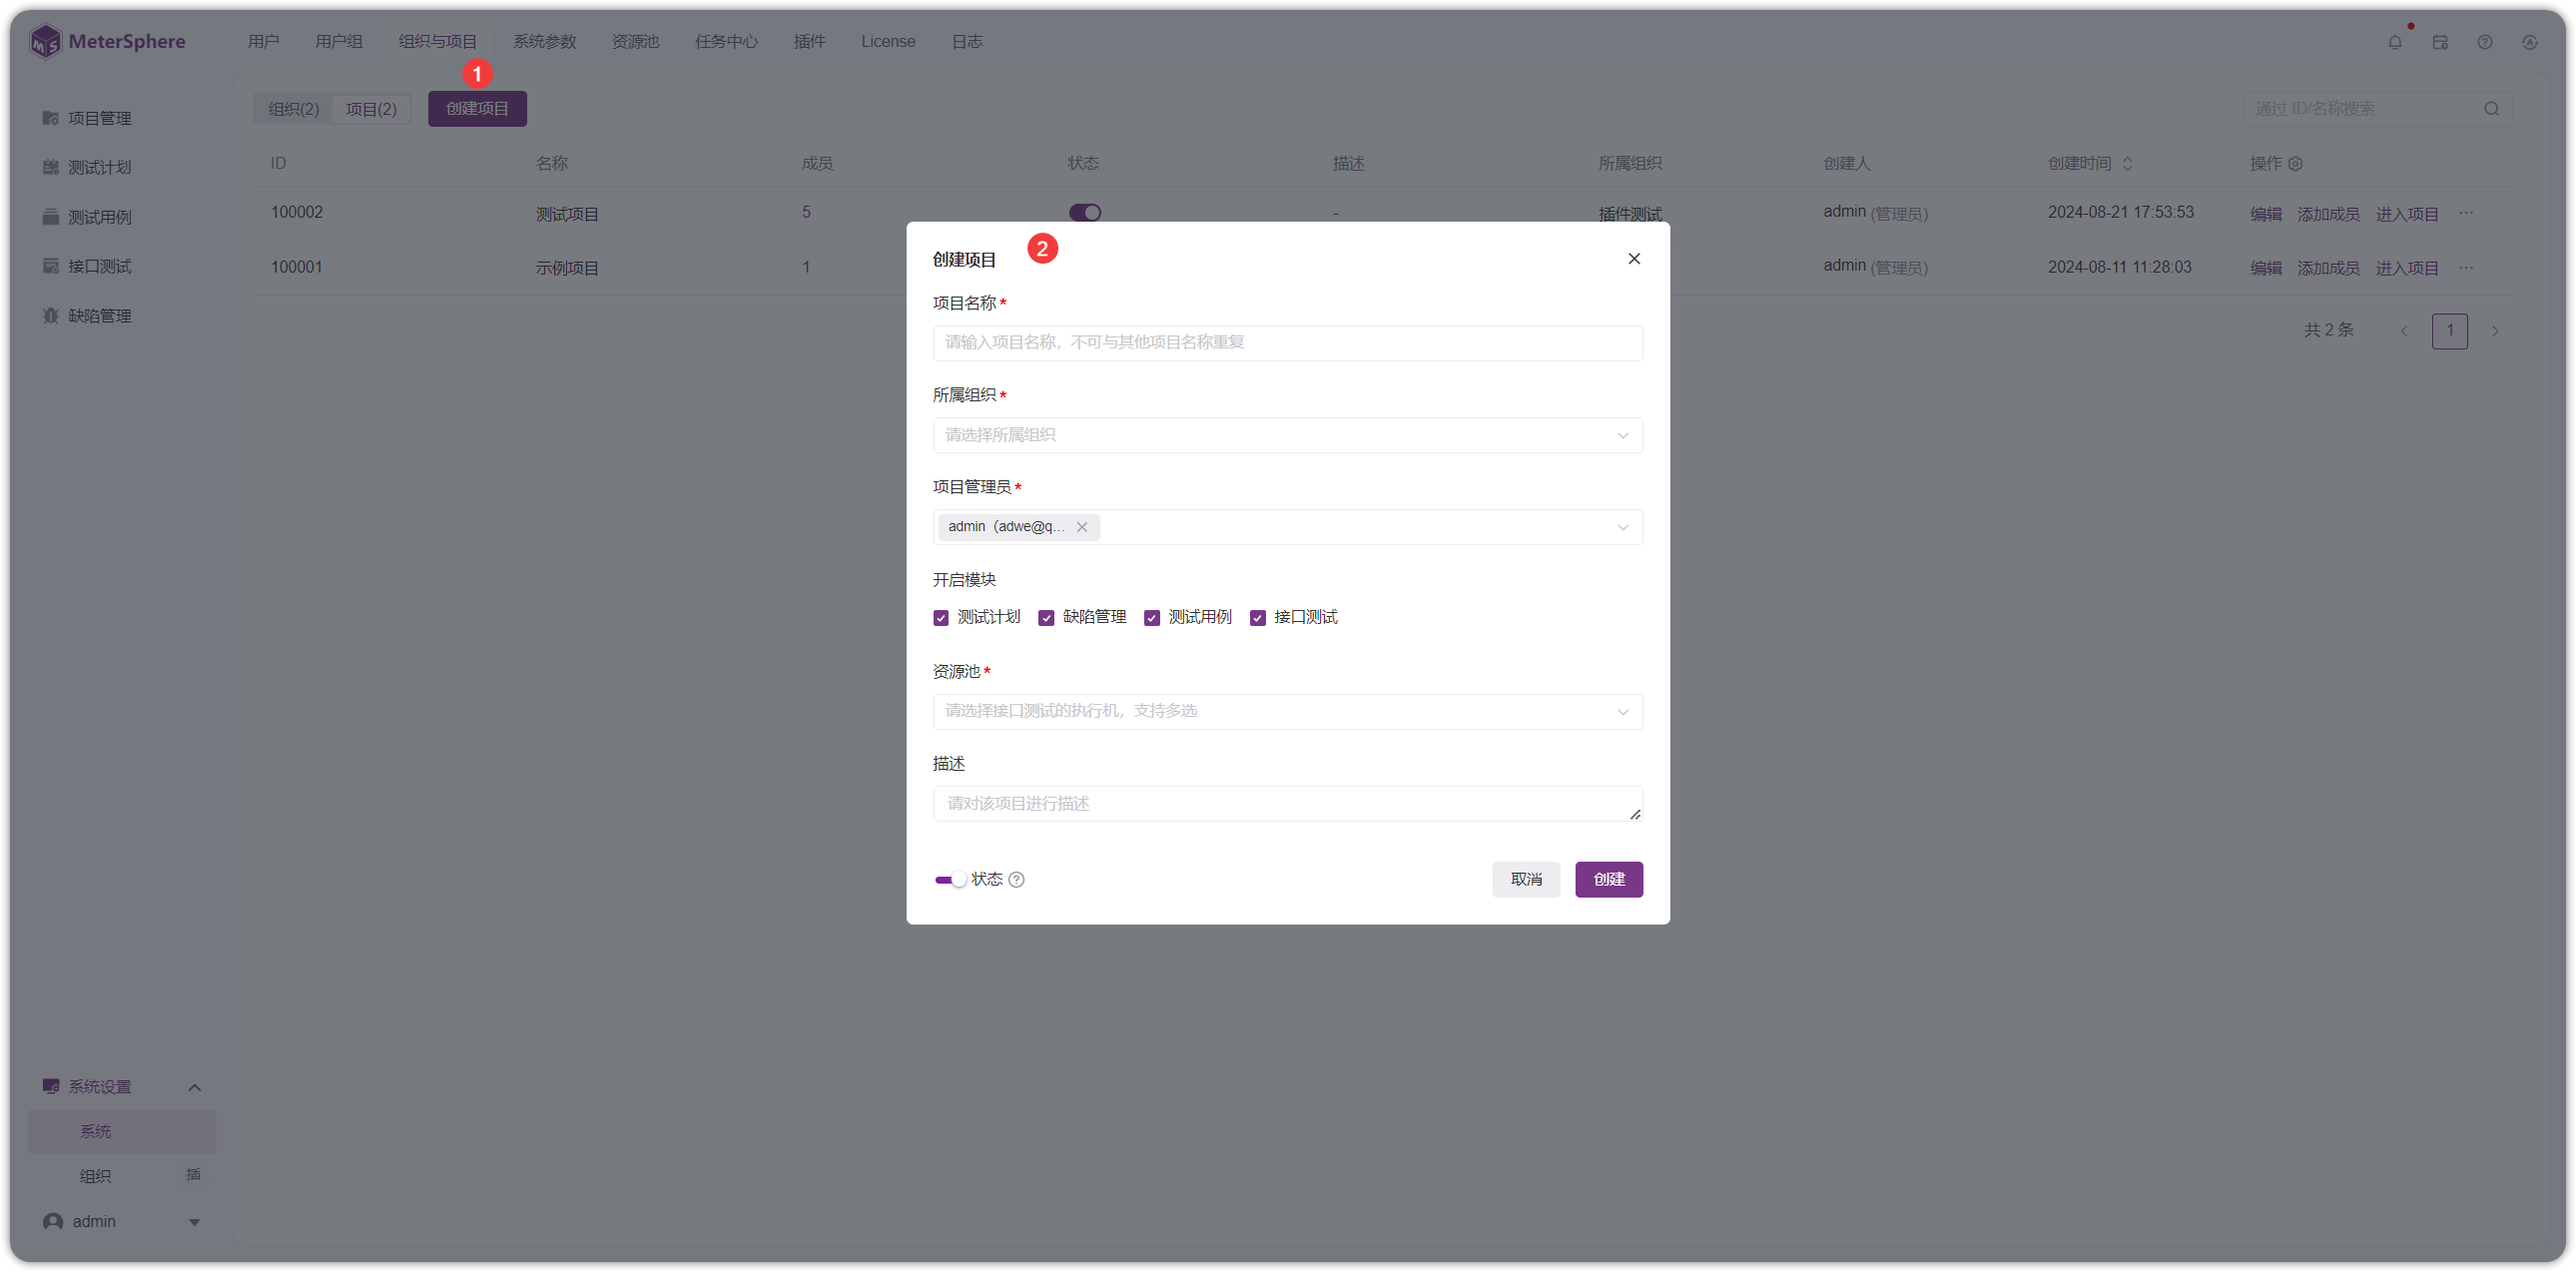
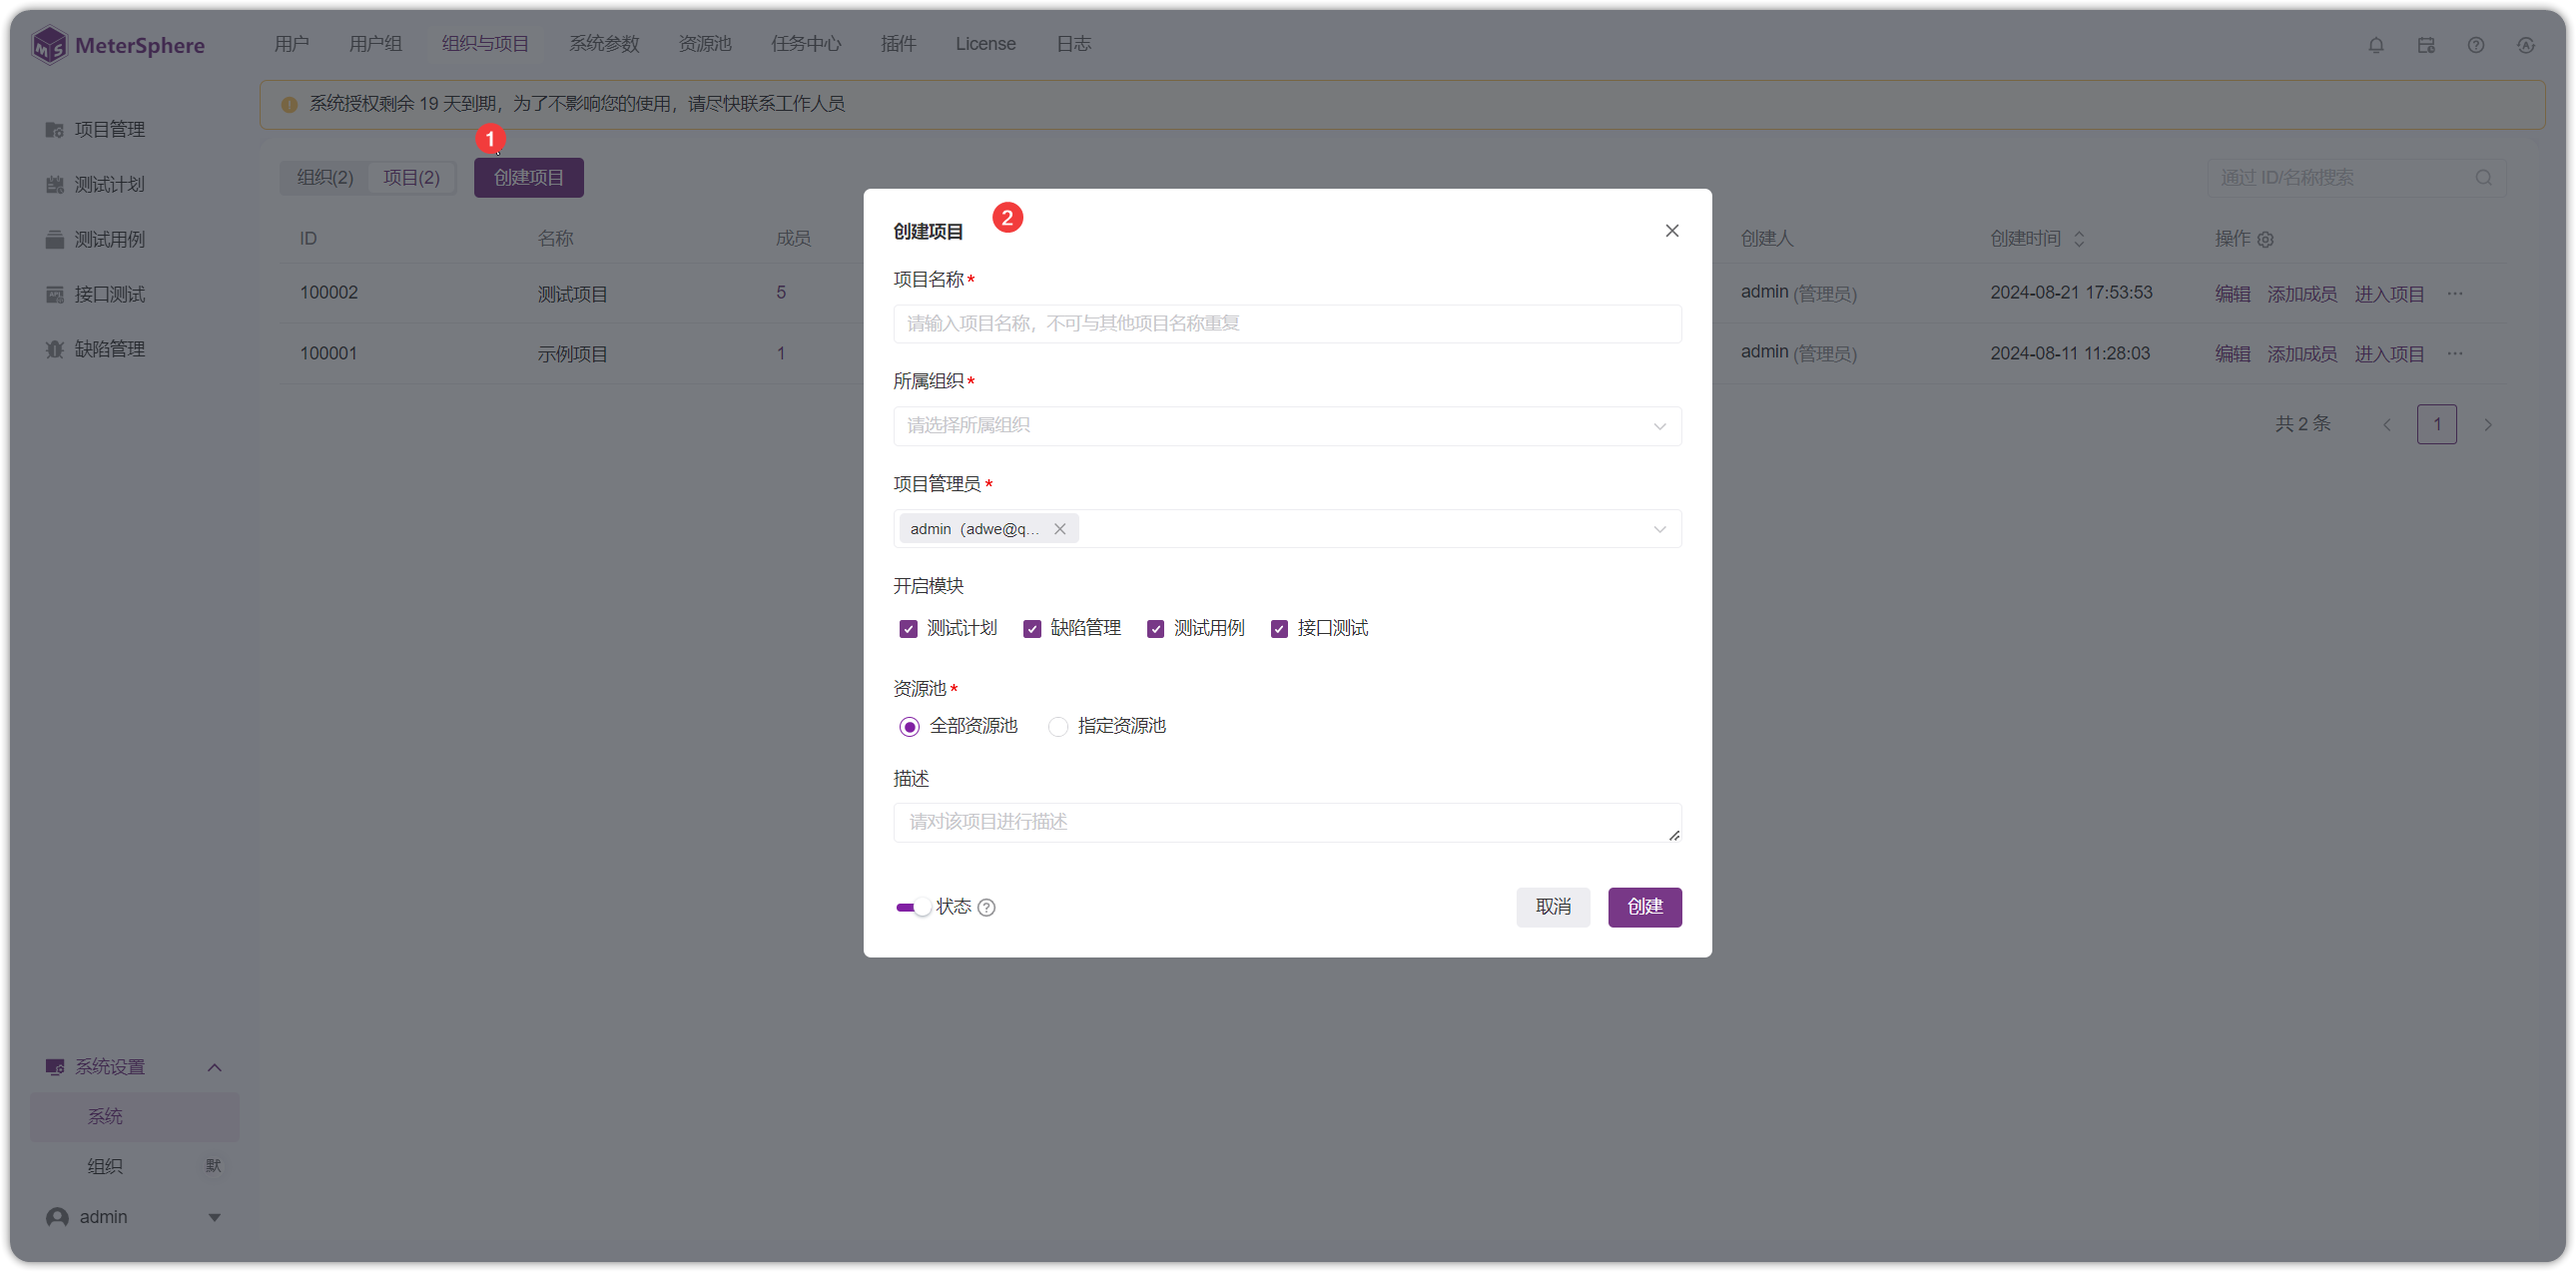
modified: 快捷保存和替换截图

diff --git a/docs/user_manual/system_management/system.md b/docs/user_manual/system_management/system.md
@@ -116,7 +116,7 @@
 !!! ms-abstract ""
 
     - **新增项目**<br>
-    点击【创建项目】按钮新建项目，在弹出页面中编辑项目名称、项目管理员、开启模块、描述、启用停用状态等信息。
+    点击【创建项目】按钮新建项目，在弹出页面中编辑项目名称、项目管理员、开启模块、资源池、描述、启用停用状态等信息。
 ![!编辑工作空间](../../img/system_management/创建项目.png){ width="900px" }
 
 
@@ -124,7 +124,7 @@
 
     - 【项目管理员】：默认为当前创建人，项目管理员自动加入当前项目。当项目管理员不在当前创建的项目所属组织时，自动将项目管理员加入到项目所属组织，赋予组织成员用户组。</br>
     - 【开启模块】：默认全选，可以自定义选择。若编辑项目取消模块，已产生数据保留，但是无入口进入对应模块。</br>
-    - 【资源池】：用于接口测试执行任务，默认可用 Local 资源池。资源池配置在[系统-资源池](./system.md#5)配置。</br>
+    - 【资源池】：用于接口测试执行任务，可选择全部资源池和指定资源池。资源池配置在[系统-资源池](./system.md#5)配置。</br>
     - 【状态】：默认启用，有启用，关闭两种状态。</br>
 
 

diff --git a/docs/user_manual/general.md b/docs/user_manual/general.md
@@ -41,6 +41,11 @@
     勾选复选框，如下图进行批量操作。
 ![!批量操作](../img/general/批量操作.png){ width="900px" }
 
+!!! ms-abstract ""
+    批量编辑标签属性时，可以进行【更新】、【追加】、【清空】等操作。
+![!批量操作](../img/general/批量编辑标签操作.png){ width="900px" }
+
+
 ### 3.2 全选操作
 !!! ms-abstract ""
     点击列表表头行复选框右侧【V】，选择【全选当前页】或【全选所有页】进行批量操作。
@@ -89,6 +94,10 @@
 !!! ms-abstract ""
     鼠标悬停在表头字段左侧空白处，出现【┤├】按钮，左右拖动调整列表宽度。
 ![!调整列表宽度](../img/general/调整列表宽度.png){ width="900px" }
+
+### 3.10 快捷键保存
+!!! ms-abstract ""
+    用例编辑页面，支持使用快捷键【Ctrl+s/Command+s】进行保存操作。
 
 ## 4 回收站
 !!! ms-abstract ""

diff --git a/docs/user_manual/project_management/environment.md b/docs/user_manual/project_management/environment.md
@@ -27,6 +27,8 @@
 
 ![!环境进行复制删除操作](../../img/project_management/enviroment/环境进行复制删除操作.png){ width="900px" }
 
+![!环境进行复制删除操作](../../img/project_management/enviroment/环境复制删除导出操作.png){ width="900px" }
+
 ![!导入导出环境](../../img/project_management/enviroment/导入导出环境.png){ width="900px" }
 
 !!! ms-abstract "功能说明:"
